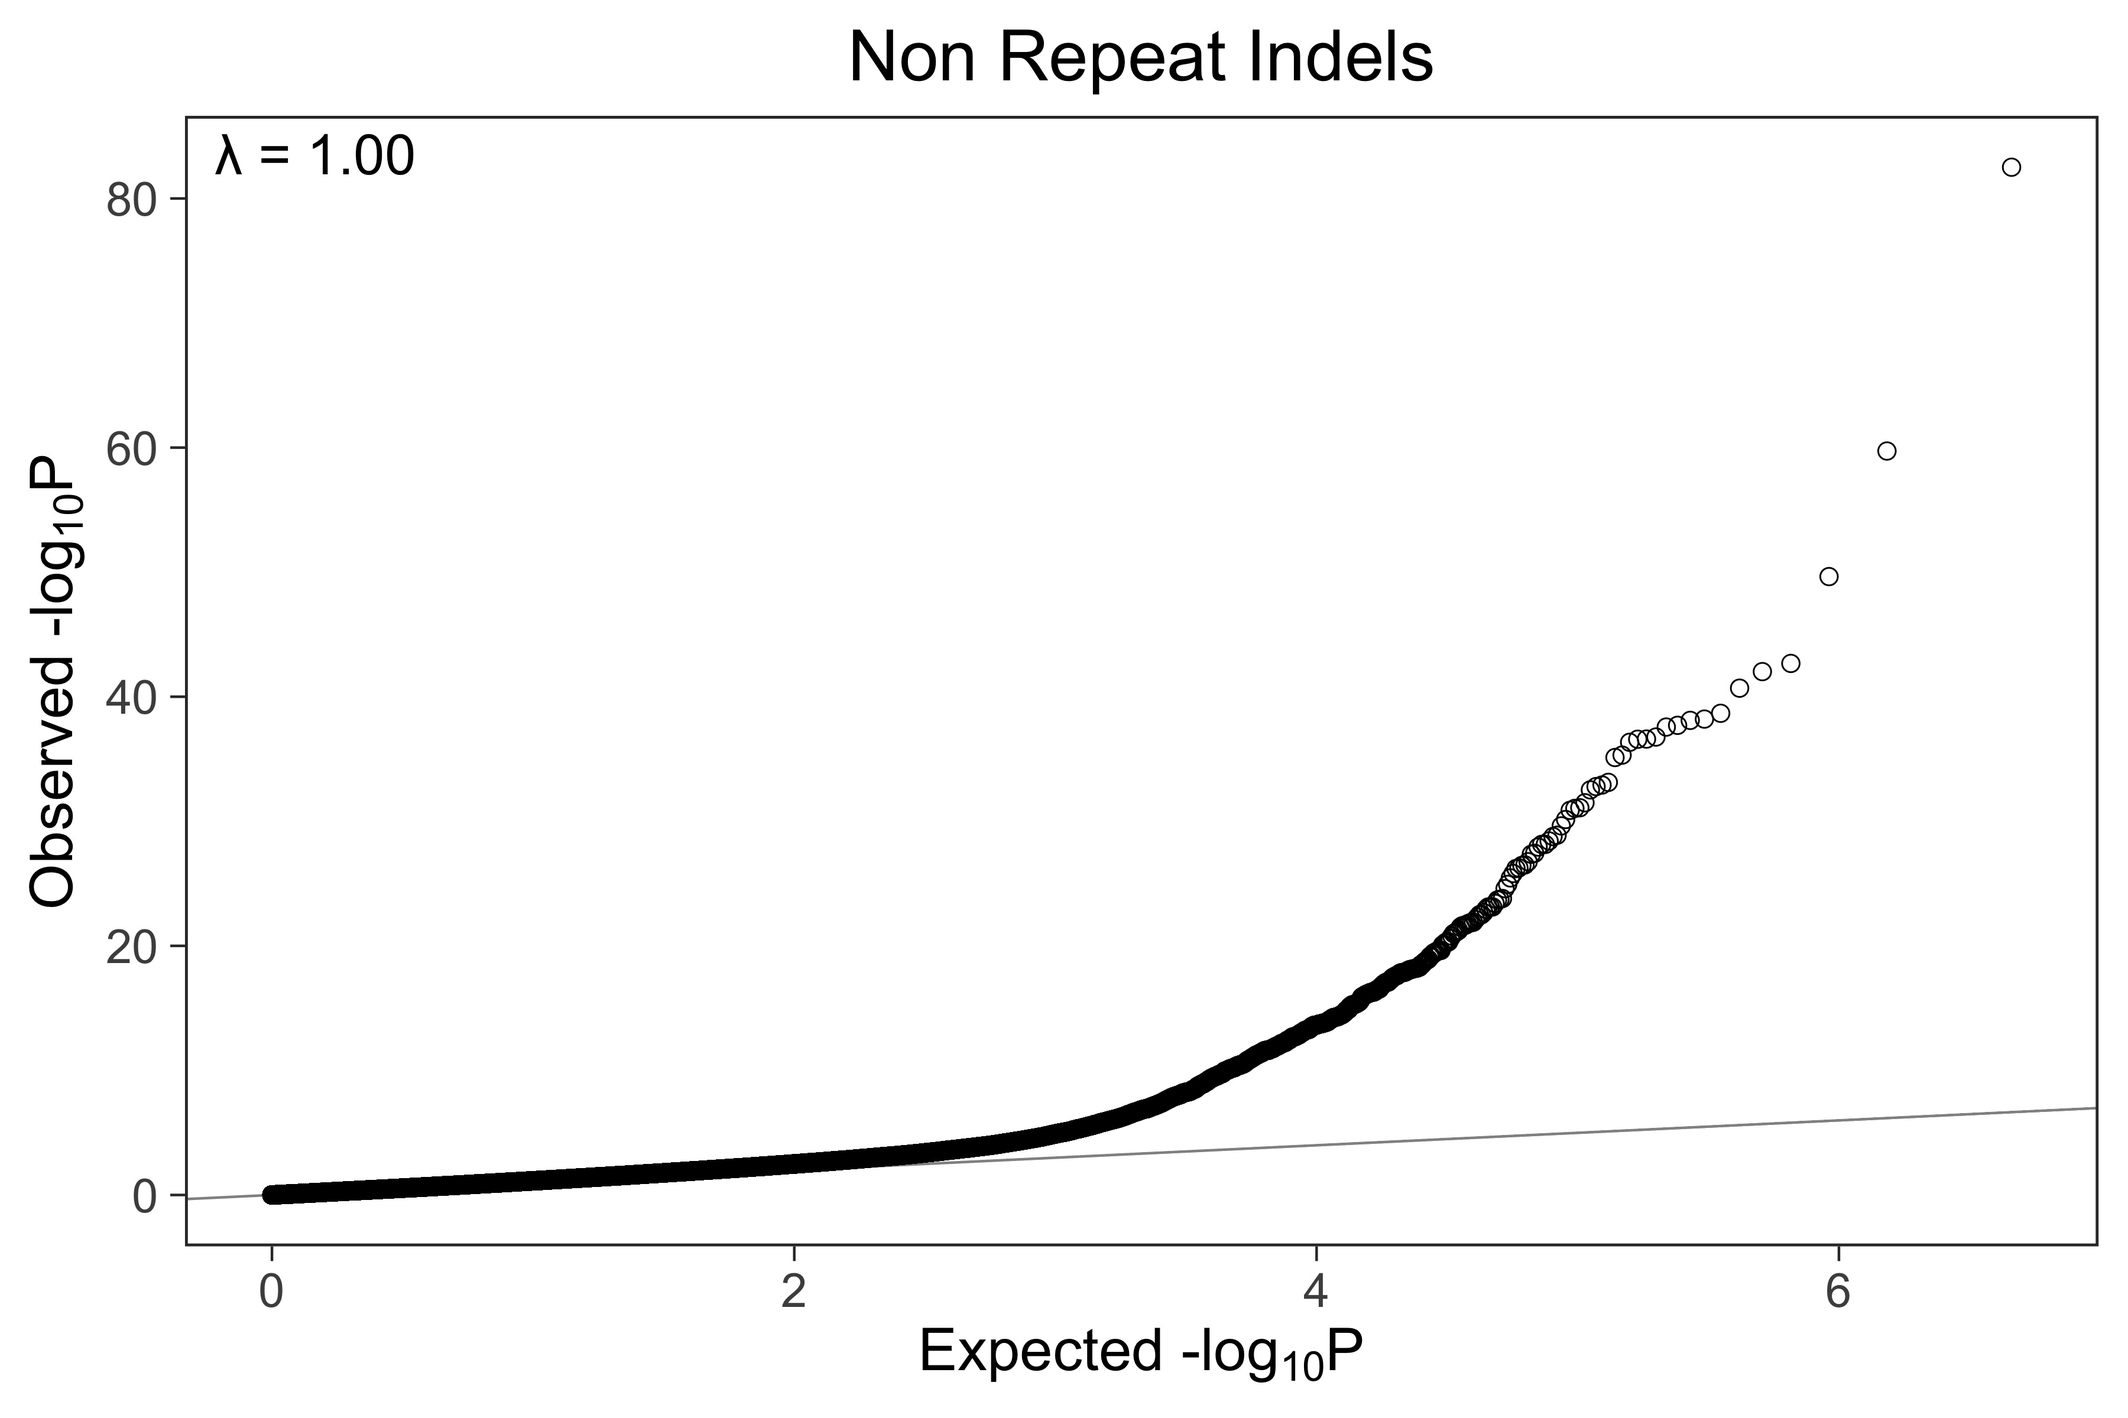
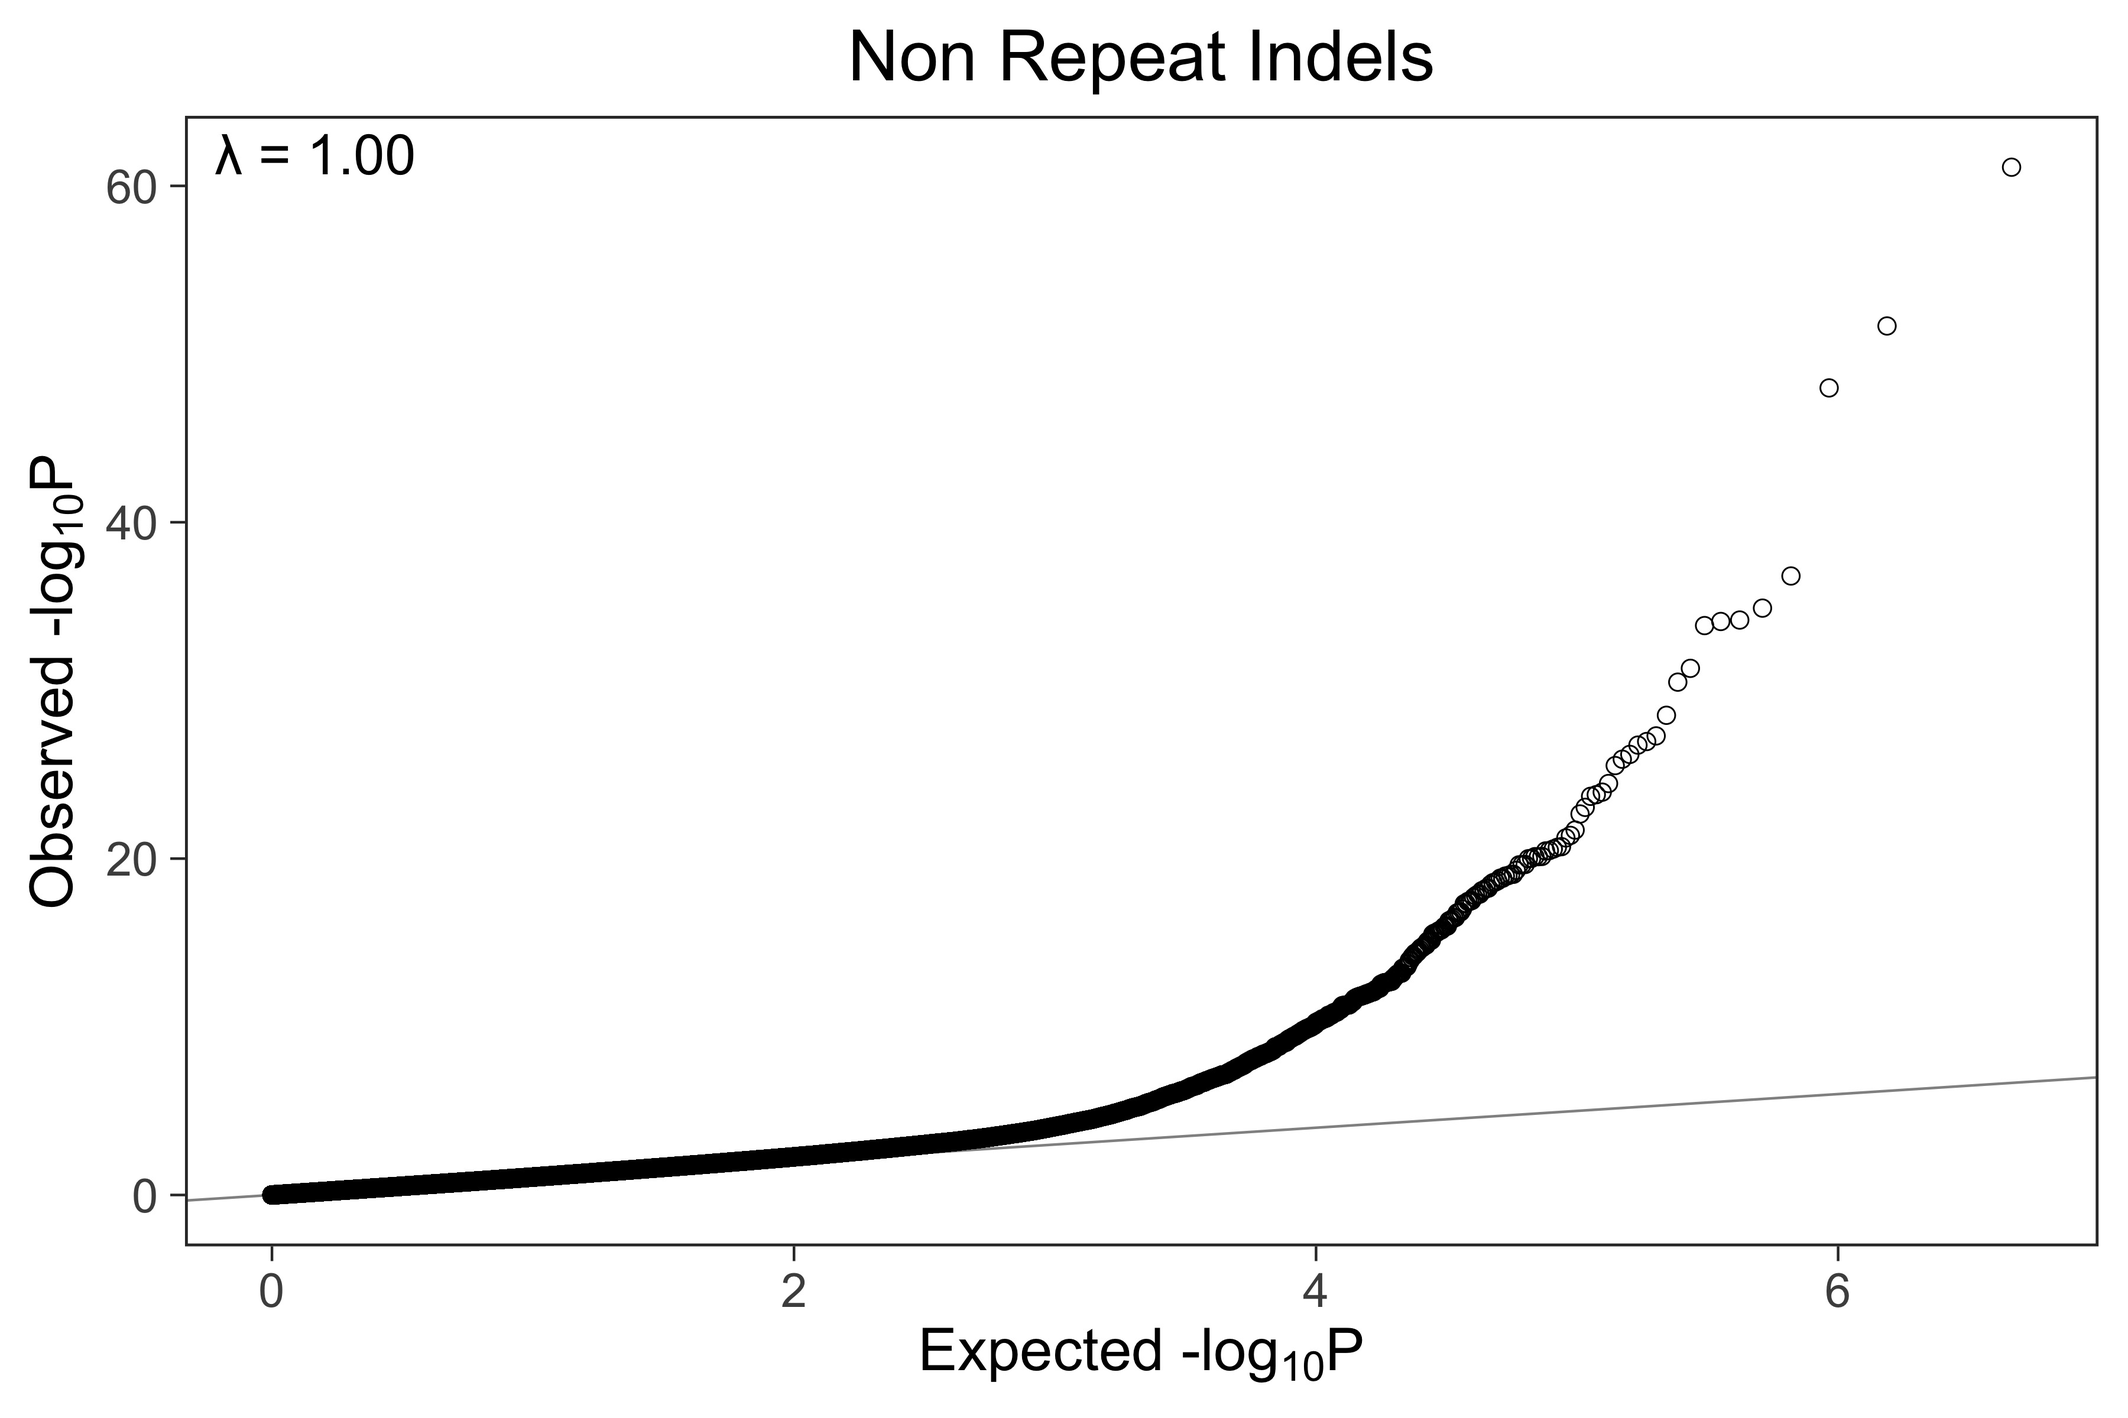
updated stuff

diff --git a/legacy.tex b/legacy.tex
@@ -161,9 +161,8 @@ By 2011, older sequencing technologies were phased out, and methods became more 
 We therefore performed the same reverse GWAS approach in all populations independently, and similarly identified $Q$-associated SNPs in 24 of the 26 populations in the 1kGP, with the phase 1 populations being most affected, with on average four times as many significantly associated sites compared to the phase 3 populations.
 Over 3826 variants were independently associated to low $Q$ in at least two populations with $ p < 10^{-6}$ in each (Figure \ref{OverLap}).
 
-To build a test statistic to represent the association across all populations simultaneously, we performed a simple logistic regression predicting genotype based on $Q$. 
-To account for population structure, we also included the top five global principal components.
-This method identifies a total of 14,322 statistically significant variants associated to $Q$ (Figures \ref{NRS_Manhattan},\ref{NRI_Manhattan}, \ref{RS_Manhattan}, and \ref{RI_Manhattan}). 
+To build a test statistic to represent the association across all populations simultaneously, we performed a simple logistic regression predicting genotype based on $Q$ with population as a covariate to account for population structure.
+This method identifies a total of 11,416 statistically significant variants associated to $Q$ (Figures \ref{NRS_Manhattan},\ref{NRI_Manhattan}, \ref{RS_Manhattan}, and \ref{RI_Manhattan}). 
 We tested SNPs, INDELs and repetitive regions separately as they may have different error rates (Table \ref{sigTable}).
 To account for the large number of tests, we used a two-stage Benjamini \& Hochberg step-up FDR-controlling procedure to adjust the p-values using a nominal Type-I error rate $\alpha = 0.001$ \citep{Benjamini2006}. 
 
@@ -171,10 +170,10 @@ To account for the large number of tests, we used a two-stage Benjamini \& Hochb
 \centering
 \begin{tabular}{l  r r}
                       & {Repeat}  & {Non-Repeat}       \\ \hline
-{SNP}  & 2,819 & 9,846 \\  
-{INDEL} & 378 & 1,279 \\ \hline
+{SNP}  & 2,007 & 8,009 \\  
+{INDEL} & 330 & 1,070 \\ \hline
 \end{tabular}
-\caption{Number of statistically significant variants per category. Variants that are flagged by the 1kGP nested repeat mask file were analyzed separately. SNPs and INDELs were also analyzed separately. The total number of 22,186 are statistically significantly associated to $Q$.}
+\caption{Number of statistically significant variants per category. Variants that are flagged by the 1kGP nested repeat mask file were analyzed separately. SNPs and INDELs were also analyzed separately. The total number of 11,416 are statistically significantly associated to $Q$.}
 \label{sigTable}
 \end{table}
 
@@ -191,13 +190,19 @@ The same variants identified as being low quality independently in each populati
   \label{OverLap}
 \end{figure}
 
+\subsection{Model selection}
+We considered multiple approaches to account for population structure in order to best capture the variants associated to $Q$.
+Each of these methods is somewhat similar to the genotype-conditional association test described by Song et al. \citep{song2015testing}.
+One approach included the top five global principal components (PCs)as covariates to account for population structure without using a categorical variable.
+Another combined both the population categorical variable as well as all five global PCs.  
+
 \subsection{Cell line or technical artifact}
 
 To determine whether this signal is the result of a cell line or technical artifact, we investigated other sequencing projects that used the same cell lines.
 Conveniently, the HapMap project sequenced some of the same cell lines as in the 1kGP with a different sequencing platform.
 The technological artifacts in one platform aren't expected to be present in another sequencing platform as the technological biases vary from platform to platform \citep{Minoche2011}.
 If the variants we've identified are the result of a cell line artifact, then we would expect the same variants to be present in the data from two separate platforms.
-From the list of 14,322 variants identified as being associated to $Q$, only 17 variants were present in HapMap \citep{HapMap2005}.
+From the list of 11,416 variants identified as being associated to $Q$, only 17 variants were present in HapMap \citep{HapMap2005}.
 Indeed, we find that while there are some variants that are present in HapMap, the number is within the expected number of false discoveries based on our FDR adjustment.
 This result suggests that there is no cell line artifact and that the variants identified in the 1kGP are the result of technological artifact.
 
@@ -208,7 +213,7 @@ To confirm this, we also ran the reverse-GWAS approach on these resequenced indi
 We found no correlation in p-values indicating that the SNPs in the resequenced dataset had no association to $Q$.
 
 We did a similar analysis using the variants identified in the \textit{5PC} model present in the 83 resequenced individuals.
-Of the 14,322 suspicious variants identified globally, only 8,697 of them are found in the 83 individuals in the original 1kGP data.
+Of the 11,416 suspicious variants identified globally, only 8,697 of them are found in the 83 individuals in the original 1kGP data.
 From this subset, 8,085 of these variants are missing entirely from the resequenced data.
 We noticed a unusually large number of INDELs that are fixed in the resequenced data that are at lower frequencies in the 1kGP. (See Figure \ref{90HanSFS_full})
 
@@ -232,38 +237,32 @@ We found that 476 of the variants we identified as being associated to $Q$ were 
 We searched the literature for any GWAS that might have reported these dubious variants as being significantly associated with some biologic al trait, even though there is no particular reason for these variants to be associated with phenotypes.
 The NHGRI-EBI Catalog of published genome-wide association studies identified eight recent publications that had reported these variants as close to or above the genome-wide significant threshold (Table \ref{gwasTable}).
 
-Four of these studies used the 1kGP in their reference panel for imputation \citep{astle2016allelic, lopez2017genome, tian2017genome, luciano2018association}.
-One study used genotype data directly using the Omni2-5 and Omni5 chips \citep{yucesoy2015genome}.
+One of these studies used the 1kGP in their reference panel for imputation \citep{tian2017genome}.
 Two studies genotyped individuals and imputed the data using the HapMap II as a reference  database for imputation \citep{Kraja2011, Ebejer2013}.
 And one study used the 1kGP sequence data and cell lines directly \citep{Mandage2017}.
-The two studies that imputed using HapMap are likely not impacted by this as these variants are likely falsely associated to $Q$.
 
-All eight papers used strict quality thresholds, including Hardy-Weinberg equilibrium test, deviations in expected allele frequency and sequencing data quality thresholds.
+All four papers used strict quality thresholds, including Hardy-Weinberg equilibrium test, deviations in expected allele frequency and sequencing data quality thresholds.
 They also removed rare alleles and alleles with high degrees of missingness.
 Despite using state-of-the-art quality controls, these erroneous variants managed not only to be imputed onto real genotype data, but they also reached genome wide significance for some biological traits.
-
+\todo{UPDATE LOG ODDDS}
 \begin{table}[h]
 \begin{tabular}{l l l r r r}
   {Pubmed ID}  & {Journal} & {rsID} & \multicolumn{1}{p{1cm}}{\centering GWAS \\ -$\log_{10} p$} & \multicolumn{1}{p{1.5cm}}{\centering $Q$ -$\log_{10} p$\\(adjusted)} & \multicolumn{1}{p{1cm}}{\centering Odds \\ ratio}     \\ \hline
- 28654678	& PLoS One	& rs201761909	& 5.70	& 100.67 & 0.63\\
- 	& 		& rs201130852	& 5.05	& 94.28 & 0.65\\
- 	& 		& rs200655768	& 6.53	& 85.84 & 0.66\\
- 	& 		& rs201255786	& 5.70	& 80.65 & 0.65\\	
- 	& 		& rs184202621	& 5.52	& 71.13 & 0.68\\
-	& 		& rs80274284	& 6.00	& 69.02 &  0.70\\
- 	& 		& rs200699422	& 5.30	& 7.82 & 0.87\\ 
+ 28654678	& PLoS One	& rs201130852	& 5.05	& 73.18 & 0.65\\
+ 	& 		& rs201761909	& 5.70	& 72.90 & 0.63\\
+ 	& 		& rs200655768	& 6.53	& 69.28 & 0.66\\
+ 	& 		& rs201255786	& 5.70	& 61.20 & 0.65\\
+ 	& 		& rs80274284	& 6.00	& 57.76 & 0.70\\		
+ 	& 		& rs184202621	& 5.52	& 53.72 & 0.68\\
+	& 		& rs200699422	& 5.30	& 6.33 & 0.87\\	
 	&		&			&		&		&\\
-23527680 &	\multicolumn{1}{p{3cm}}{\raggedright Twin Research and\\Human Genetics}	& rs6057648	& 5.40	& 25.50 & 0.82\\  
-21386085 &	\multicolumn{1}{p{3cm}}{\raggedright Diabetes\\} &	rs301 &*10.52	 & 8.22 & 0.90\\
-28928442	& \multicolumn{1}{p{3cm}}{\raggedright Nature Communications}	& rs201471471	& 6.52	& 7.14 & 0.67\\
-29255261	& \multicolumn{1}{p{3cm}}{\raggedright Nature Genetics\\}	& rs11039216	& *14.30	& 2.59 & 1.08\\
-25918132	& \multicolumn{1}{p{3cm}}{\raggedright Toxicological\\Sciences}	& rs76780579	& 6.00	& 2.58	& 1.17 \\
-27863252	& \multicolumn{1}{p{3cm}}{\raggedright Cell\\}	& rs3794738	& *13.16	& 2.39 & 0.91\\
-28698626	& Scientific Reports	& rs11015915	& 5.05	& 2.05 & 1.08\\
+23527680 &	\multicolumn{1}{p{3cm}}{\raggedright Twin Research and\\Human Genetics}	& rs6057648	& 5.40	& 14.17 & 0.82\\  
+21386085 &	\multicolumn{1}{p{3cm}}{\raggedright Diabetes\\} &	rs301 &*10.52	 & 9.21 & 0.90\\
+28928442	& \multicolumn{1}{p{3cm}}{\raggedright Nature Communications}	& rs201471471	& 6.52	& 2.5 & 0.67\\
 
  \hline
 \end{tabular}
-\caption{A list of eight recent publications that reported suspicious variants as close to or above the genome-wide significant threshold. The variants reaching genome wide significance have a star ( * ). Note : with a FDR ($\alpha = 0.01$) p-value adjustment, values of -$\log_{10} p > 2$ are deemed significant. }
+\caption{A list of four recent publications that reported suspicious variants as close to or above the genome-wide significant threshold. The variants reaching genome wide significance have a star ( * ). Note : with a FDR ($\alpha = 0.01$) p-value adjustment, values of -$\log_{10} p > 2$ are deemed significant. }
 \label{gwasTable}
 \end{table}
 
@@ -280,7 +279,7 @@ Different sequencing technologies will have different error profiles.
 A report comparing the Genome Analyzer II (GAII) to the Illumina HiSeq found that the GAII had much higher rates of reads below a quality score of 30 \citep{Minoche2011}, with, for instance, different patterns of quality decrease along reads (known as B-tails). 
 Differences in read quality and error profiles in turn require different calling pipelines.
  
- We were not able to pinpoint the precise technical source of the discrepancy. 
+We were not able to pinpoint the precise technical source of the discrepancy. 
 Further inquiries into the details of sample preparation and data processing would be required to identify the source of this signal. 
 For instance, our test was limited by the genome wide resolution of the quality per sample.
 Data quality at a SNP-wise resolution would be a better metric to use, but unfortunately was not available.
@@ -341,13 +340,13 @@ The  1000 Genomes \href{http://ftp.1000genomes.ebi.ac.uk/vol1/ftp/release/201305
 Furthermore, only sites with missingness below 0.01, MAF less than 0.1, and MAF greater than 0.9 we're considered.
 In total, 57,838,849 diallelic autosomal variants passed our quality controls for the mutation spectrum analysis.
 
-For the reverse GWAS we used less stringent quality controls to broaden the scope of our analysis. The only filtration used was the application of an allele frequency cutoff of 0.000599 (removing singletons, doubletons and tripletons) resulting in a total of 37,674,915 variants ($S$) included in the test (see Table \ref{totTable}). We also used the \href{http://hgdownload.cse.ucsc.edu/goldenpath/hg19/database/nestedRepeats.txt.gz}{NestedRepeats} mask file to flag variants inside repetitive regions as these were analyzed separately.
+For the reverse GWAS, the only filtration used was the application of an allele frequency cutoff of 0.000599 (removing singletons, doubletons and tripletons) as well as a strict removal of sites with any missing data resulting in a total of 37,700,882 variants ($S$) included in the test (see Table \ref{totTable}). We also used the \href{http://hgdownload.cse.ucsc.edu/goldenpath/hg19/database/nestedRepeats.txt.gz}{NestedRepeats} mask file to flag variants inside repetitive regions as these were analyzed separately.
 
 \begin{table}[h]
 \begin{tabular}{l  r r}
                       & {Repeat}  & {Non-Repeat}       \\ \hline
-{SNP}  & 8,393,290 & 26,240,754   \\  
-{INDEL} &  749,724  & 2,291,150 \\ \hline
+{SNP}  & 8,393,467 & 26,241,186   \\  
+{INDEL} &  756,889  & 2,309,280 \\ \hline
 \end{tabular}
 \caption{Number of variants included in the analysis by category}
 \label{totTable}
@@ -356,21 +355,23 @@ For the reverse GWAS we used less stringent quality controls to broaden the scop
 \subsection{Genome wide association study}
 We ran a simple logistic regression independently for each genomic locus $s$ using the R glm2 package\citep{RDevelopmentCoreTeam2016}. The model we fitted to each subset of data can be expressed as such.
 \begin{align*}
-{logit}{E(Y_{s'i})} &= \beta_{0}  + \beta_{1}{PC1}_{i} + \beta_{2}{PC2}_{i} + \beta_{3}{PC3}_{i} + \beta_{4}{PC4}_{i} + \beta_{5}{PC5}_{i} + \beta_{6}Q_{i}
+%{logit}{E(Y_{s'i})} &= \beta_{0}  + \beta_{1}{PC1}_{i} + \beta_{2}{PC2}_{i} + \beta_{3}{PC3}_{i} + \beta_{4}{PC4}_{i} + \beta_{5}{PC5}_{i} + \beta_{6}Q_{i}
+{logit}{E(Y_{s'i})} &= \beta_{0}  + \beta_{1}{Pop}_{i}  + \beta_{2}Q_{i}
 \\
 \textit{for}\quad i &= 1,\hdots, n
 \end{align*}
 Here $Y_{si}$ is a Bernoulli random variable denoting the genotype of individual $i$ at genomic locus $s$. 
-In the model, the regression coefficient $\beta_{1}{PC1}$ represents the coefficient of the first principal component, the slope coefficient $\beta_{6}$ denotes the association to average quality of mapped bases $Q$ to genotype $Y_{s}$. 
+%In the model, the regression coefficient $\beta_{1}{PC1}$ represents the coefficient of the first principal component, the slope coefficient $\beta_{6}$ denotes the association to average quality of mapped bases $Q$ to genotype $Y_{s}$. 
+In the model, the regression coefficient $\beta_{1}{Pop}_{i}$ represents the coefficient of the categorical variable of Population, the slope coefficient $\beta_{6}$ denotes the association to average quality of mapped bases $Q$ to genotype $Y_{s}$. 
 We run a total of $S$ regressions, where $S$ is the total number of genomic loci. 
 
-For each of the $K$ regressions, we formulated a null hypothesis $H_{0}: \beta_{6}^{(s)}=0$. That is, the average quality of mapped bases $Q$ variable is not associated with genotype $Y_{s}$.
+For each of the $K$ regressions, we formulated a null hypothesis $H_{0}: \beta_{2}^{(s)}=0$. That is, the average quality of mapped bases $Q$ variable is not associated with genotype $Y_{s}$.
 In other words, the slope coefficient of the simple logistic regression is zero.
 To test the null hypothesis, we used the chi-square likelihood ratio test statistic (the deviance) as a measure of the marginal importance of adding $Q$ in the model. 
 The deviance test statistic is approximately chi-square distributed with one degrees of freedom.
 
 Given the large number of tests (of which there are $S$), the large proportion of expected null hypotheses and the positive dependencies across the genome, we used the two-stage Benjamini \& Hochberg step-up FDR-controlling procedure to adjust the \textit{p}-values \citep{Benjamini2006}.
-By using a nominal Type-I error rate $\alpha = 0.01$, a total of 22,186 variants were found to be statistically significance. See supplementary file {here}. \luke{make this file}
+By using a nominal Type-I error rate $\alpha = 0.01$, a total of 11,416 variants were found to be statistically significance. See supplementary file {here}. \luke{make this file}
 
 \subsection{Mutation Spectrum}
 We calculated the mutation spectrum of triplets for the list of significant variants for the JPT population using a similar method as described in Harris et al. 2017. \citep{Harris2017a}
